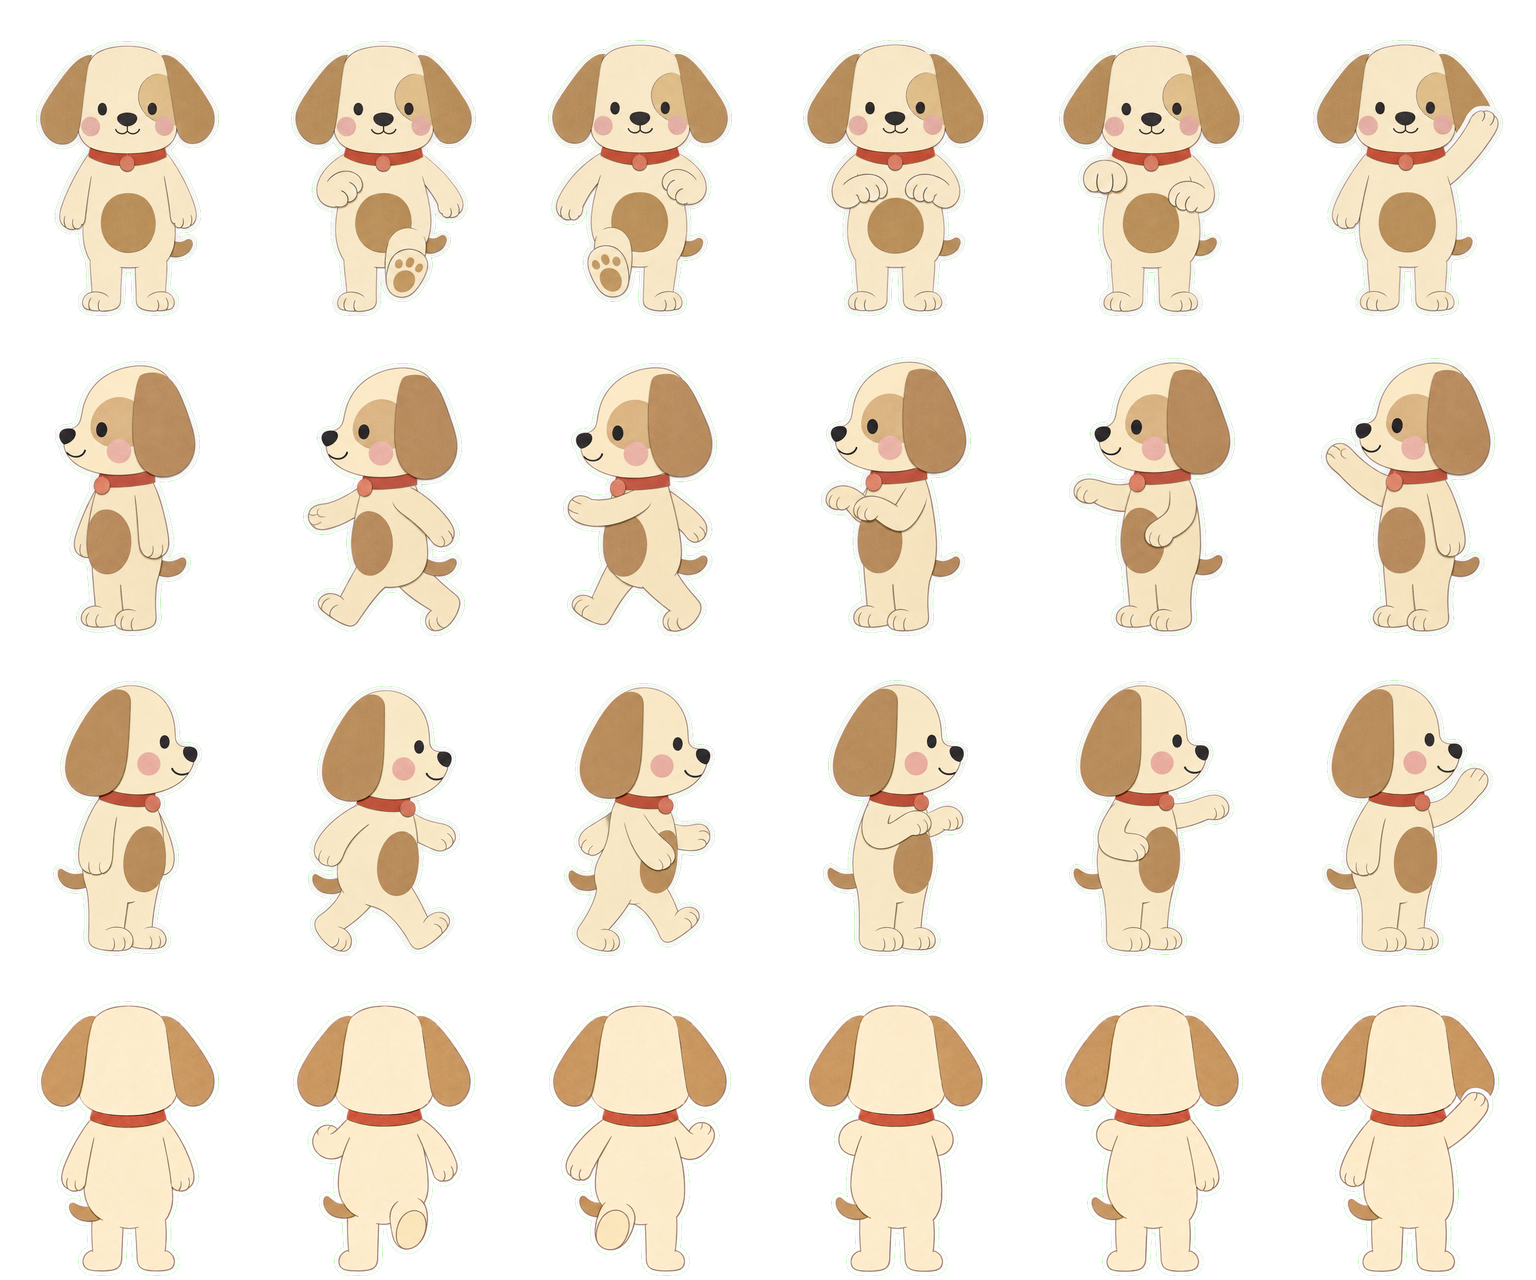
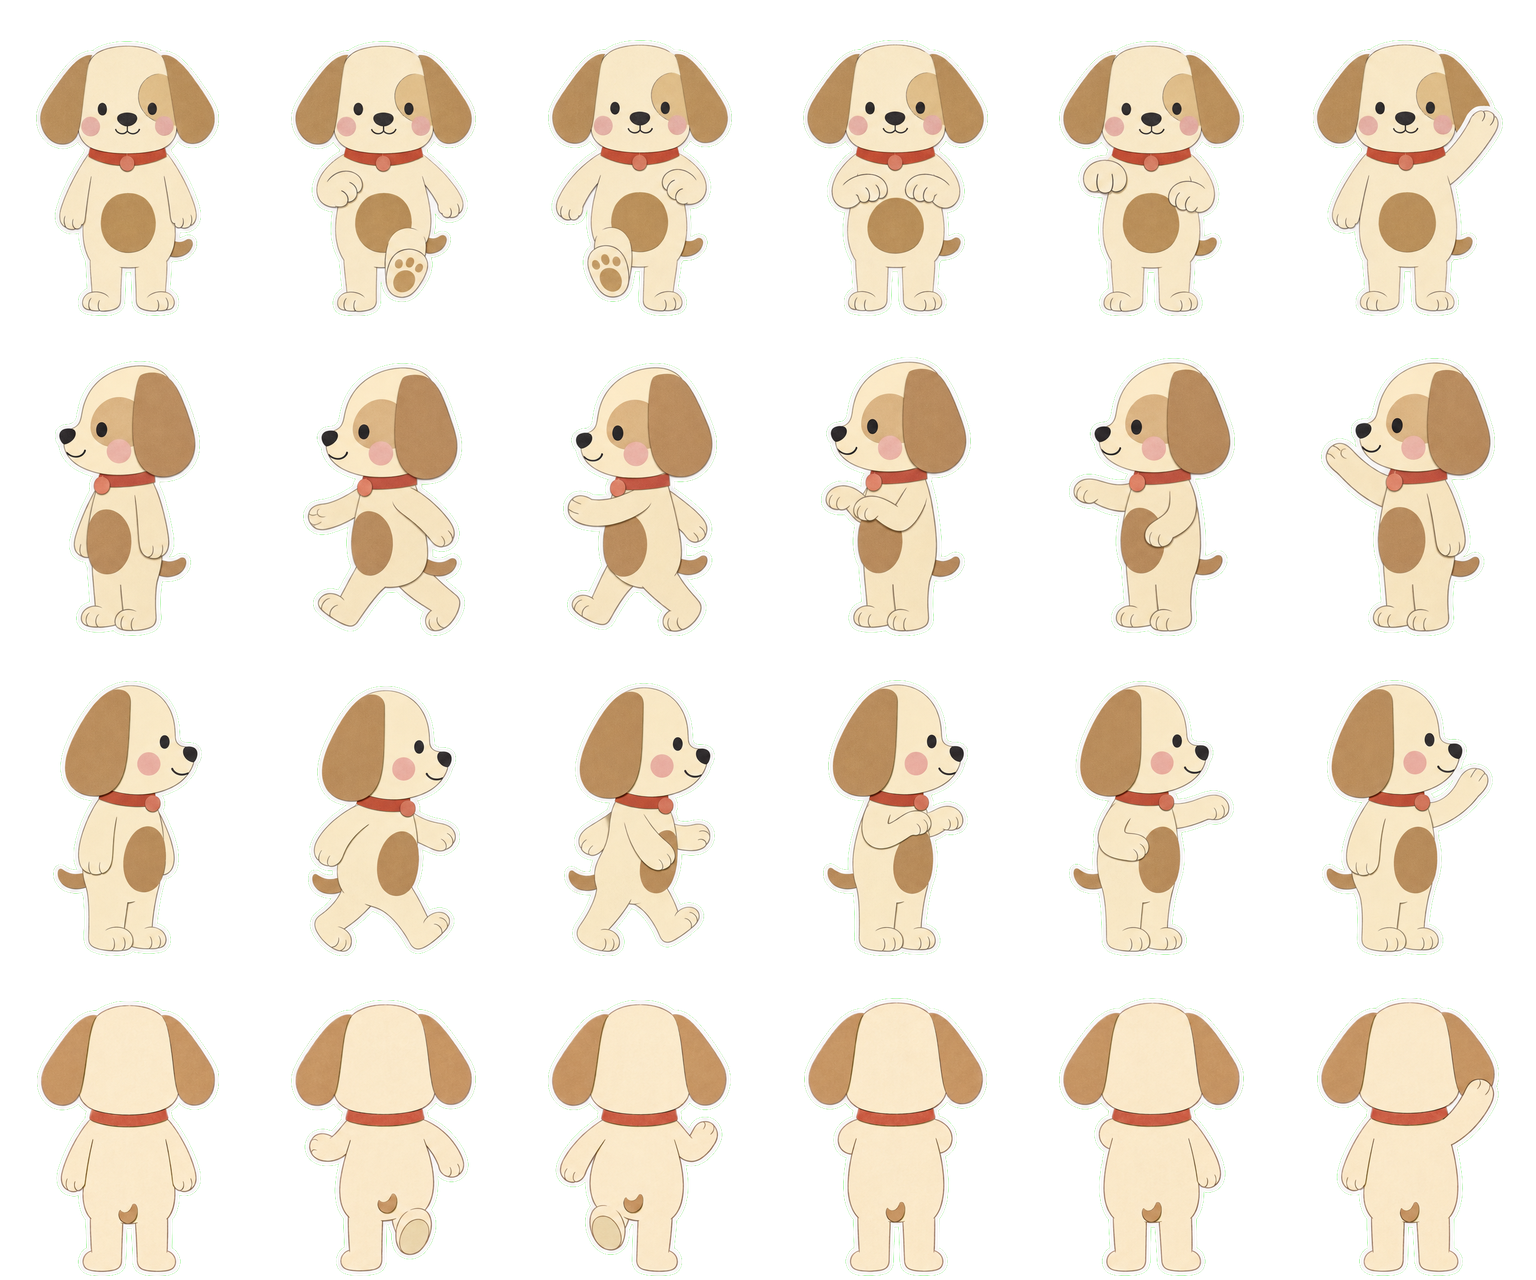
Primepaw: from behind, just the tip of the puppy's tail peeks out at the centre of its rump
The last edit put a whole tail at the back view's hip; the tail belongs at
the centre, with only its tip showing. The turnaround's back figure is edited
again with GPT Image 2.6 (the sheet as the first reference, the body as the
second), changing only that: a small curled kraft tip at the middle of the
bottom of the back, where the legs meet the body, the other three figures
unchanged to the pixel. The back strip is redrawn from it with the tip spelled
out and held at the centre in every cell, and dog-walk.png is rebuilt: only
the up row changes, 275 to 278 px tall with its feet on the ground line, the
other rows and the peeking cuts byte-identical.

The {BACK} slot, comfy.md's judging line and pet/README.md's prompts now say
the tail tip at the centre, and the README notes the two edits it took.

diff --git a/mockups/primepaw/pet/README.md b/mockups/primepaw/pet/README.md
@@ -46,9 +46,9 @@ attention (3.2 a second), with a little lift and roll on top. The four walk stri
 were drawn with GPT Image 2.6 Sunburst rather than Qwen, which splays the legs when the puppy walks
 away and turns its head in profile. The back strip was drawn from `src/dog/turnaround.png`, the puppy
 from its four sides, because with only the front to go on the model made up a back and put the tummy
-patch there; the turnaround settles it as plain cream, the tail at its left hip curling up as the front
-shows it. The character skill's `comfy.md` has that recipe. `dog-walk.png` is cut to that layout, the puppy's feet on the cell's ground
-line and the standing puppy 86% of the cell's height, so the host hands it over as
+patch there; the turnaround settles it as plain cream, with just the tip of the tail peeking out at the
+centre of the rump. The character skill's `comfy.md` has that recipe. `dog-walk.png` is cut to that
+layout, the puppy's feet on the cell's ground line and the standing puppy 86% of the cell's height, so the host hands it over as
 
 ```ts
 petAssets: { byAgent: { jarvis: { src: "pet/dog-walk.png", layout: "sheet", height: 2.67 } } }
@@ -149,36 +149,36 @@ all, its short tail at the bottom in the middle, its two paws at its sides and t
 at the left. All on a solid flat bright green (#00FF00) background, with no ground line drawn, no grid
 lines, no borders, no labels and no text. Flat paper, no shadows, no gradients, not 3D."
 
-That wording put the tail where it said, hanging in the middle, so the sheet was edited once, the
-turnaround as the first reference and the body as the second: "...Reproduce the turnaround sheet
-exactly as it is, every figure the same size and in the same place, with the same colours, the same
-pen-ink outlines, the same faint paper grain and the same white die-cut sticker border around each
-figure, changing only one thing: the tail of the third figure, the view from behind. In the front view
-the puppy's short kraft brown paper tail (#d9bc86) peeks out from behind its hip on one side, at the
-right of the picture, curving upward like a comma with its tip pointing up and outward. In the back
-view that same tail must show the same way, seen from the other side: it sticks out from the base of
-the puppy's back, low and to one side, at the left of the picture because the puppy has turned around,
-curving upward like a comma with its tip pointing up and outward, the same kraft brown paper with the
-same pen outline and the same size as in the front view. It must not hang down, must not point
-downward and must not sit in the middle between the legs. Nothing else about the back view changes..."
-The skill's `{BACK}` slot now carries the tail that way from the start.
+That wording put the tail where it said, a whole tail hanging in the middle, so the sheet was edited,
+the turnaround as the first reference and the body as the second (a first edit moved the tail to the
+hip, which was wrong too): "...Reproduce the turnaround sheet exactly as it is, every figure the same
+size and in the same place, with the same colours, the same pen-ink outlines, the same faint paper
+grain and the same white die-cut sticker border around each figure, changing only one thing: the tail
+of the third figure, the view from behind. Seen from directly behind, the puppy's short kraft brown
+paper tail (#d9bc86) sits at the centre of its rump, in the middle of the bottom of its back, right
+where the two legs meet the body, and only the tip of the tail peeks out: a small curled tip, curving
+upward with its point up, the same kraft brown paper with the same pen outline as the tail the front
+view shows peeking at its hip, drawn small and centred between the two legs, not at either side of the
+body and not hanging down below the body. Nothing else about the back view changes..." The skill's
+`{BACK}` slot now carries the tail that way from the start.
 
 **The back strip** (1536 by 1024, GPT Image 2.6, the turnaround first and the body second): "The first
 reference image is a character turnaround of a paper cut-out friendly floppy-eared puppy: its front,
 its left side, its back and its right side. The second reference image is the same puppy from the
 front. Draw the puppy exactly as the turnaround's third figure shows it from behind: the back of its
 head with no face at all, the backs of both kraft brown floppy ears hanging at the sides of the head,
-the back of the red collar, a plain cream paper back with no patch, its short kraft brown tail sticking
-out from the base of its back, low and at the left of the picture, curving upward like a comma with
-its tip pointing up and outward, exactly as the turnaround's back view shows it and never hanging down
-between its legs, its two paws at its sides and the backs of its little feet, pen-ink outlines, flat
-paper colours with a faint grain, and the white die-cut sticker border. Draw it as a stop-motion sprite sheet: a grid
+the back of the red collar, a plain cream paper back with no patch, just the tip of its short kraft
+brown tail peeking out at the centre of its rump, in the middle of the bottom of its back where the
+two legs meet the body, a small curled tip curving upward, never at the side of its hip and never
+hanging down between its legs, exactly as the turnaround's back view shows it, its two paws at its
+sides and the backs of its little feet, pen-ink outlines, flat paper colours with a faint grain, and
+the white die-cut sticker border. Draw it as a stop-motion sprite sheet: a grid
 of 3 columns and 2 rows, 6 cells of equal size, on a solid flat bright green (#00FF00) background, with
 no grid lines, no borders, no labels and no text. The 6 cells read left to right along the top row and
 then along the bottom row. In every cell the puppy is the same size as in the turnaround, seen from
 directly behind, facing straight away from the viewer, its body upright and square to the viewer in
-every cell, never turning, with its feet standing on the same ground line and its tail the same in
-every cell. The 6 cells: 1. standing still with both paws relaxed at its sides, both feet planted,
+every cell, never turning, with its feet standing on the same ground line and the tail tip the same,
+at the centre, in every cell. The 6 cells: 1. standing still with both paws relaxed at its sides, both feet planted,
 exactly like the turnaround's back view;
 2. mid-step walking away from us: the left leg planted straight down under the body and the right leg
 bent back and lifted so we see the sole of its raised right foot, the legs staying under the body and

diff --git a/mockups/primepaw/.claude/skills/primepaw-character/references/prompts.md b/mockups/primepaw/.claude/skills/primepaw-character/references/prompts.md
@@ -16,7 +16,7 @@ prompt opens with the recap so the model keeps the character it is shown.
 | `{HEAD}` | what the avatar shows: the head and whatever sits at the neck | the puppy's head with its ears and the top of its red collar |
 | `{BODY}` | the standing figure, head to toe | a short round cream paper body, a kraft brown paper patch on its tummy, its two front paws hanging relaxed at its sides, two short legs with little round feet planted on the ground, the tip of its tail showing at one side, the same red collar around its neck and the same friendly smiling face |
 | `{SIDE}` | what a profile view shows | one eye, one ear, the tummy patch showing as a sliver at its front, its snout pointing left and its tail at the right |
-| `{BACK}` | what the view from behind shows, absences included: the front never shows the back, so the model makes one up unless this slot settles it; say where each part the front does show (a tail, a bow) sits from behind, mirrored, or it gets reinvented too | the back of its head with no face, the backs of both floppy ears hanging at the sides, the back of the red collar, a plain cream back with no patch at all, its short kraft brown tail sticking out from the base of its back low on its left side (at the left of the picture, since it has turned around), curving upward like a comma with its tip pointing up and outward, exactly as the front view shows it at its hip, never hanging down between its legs, its two paws at its sides and the backs of its feet |
+| `{BACK}` | what the view from behind shows, absences included: the front never shows the back, so the model makes one up unless this slot settles it; say where each part the front does show (a tail, a bow) sits from behind and how much of it shows, or it gets reinvented too | the back of its head with no face, the backs of both floppy ears hanging at the sides, the back of the red collar, a plain cream back with no patch at all, just the tip of its short kraft brown tail peeking out at the centre of its rump, in the middle of the bottom of its back where the two legs meet the body, a small curled tip curving upward, never at the side of its hip and never hanging down between its legs, its two paws at its sides and the backs of its feet |
 | `{PAWS}` | the word for its front limbs | paws |
 | `{EARS}` | the part that bounces, droops or perks (ears, antennae, feathers, a hat) | ears |
 

diff --git a/mockups/primepaw/.claude/skills/primepaw-character/references/comfy.md b/mockups/primepaw/.claude/skills/primepaw-character/references/comfy.md
@@ -82,8 +82,8 @@ as two items of one batch, is the cheap way to have a choice.
 - **The turnaround:** the body on `image_1`, the turnaround prompt from `prompts.md`. Judge it like the
   base: four figures of one height on one ground line, the back with no face and with every absence
   the `{BACK}` slot names (the puppy's plain back, no patch), every part the front shows sitting where
-  it should from behind (the puppy's tail at its left hip, curling up as the front shows it, not hanging
-  between the legs), the profiles with one eye, the same colours in every view. Save it as
+  it should from behind (the puppy's tail: just its curled tip at the centre of the rump, not a whole
+  tail at the hip and not a blob hanging between the legs), the profiles with one eye, the same colours in every view. Save it as
   `pet/src/<id>/turnaround.png`; it never ships, but every strip copies it. One figure wrong on a sheet
   that is otherwise right is an edit, not a redraw: send the sheet back as `image_1` with the body as
   `image_2` and ask for it reproduced exactly with that one change; the other figures stay in place to
